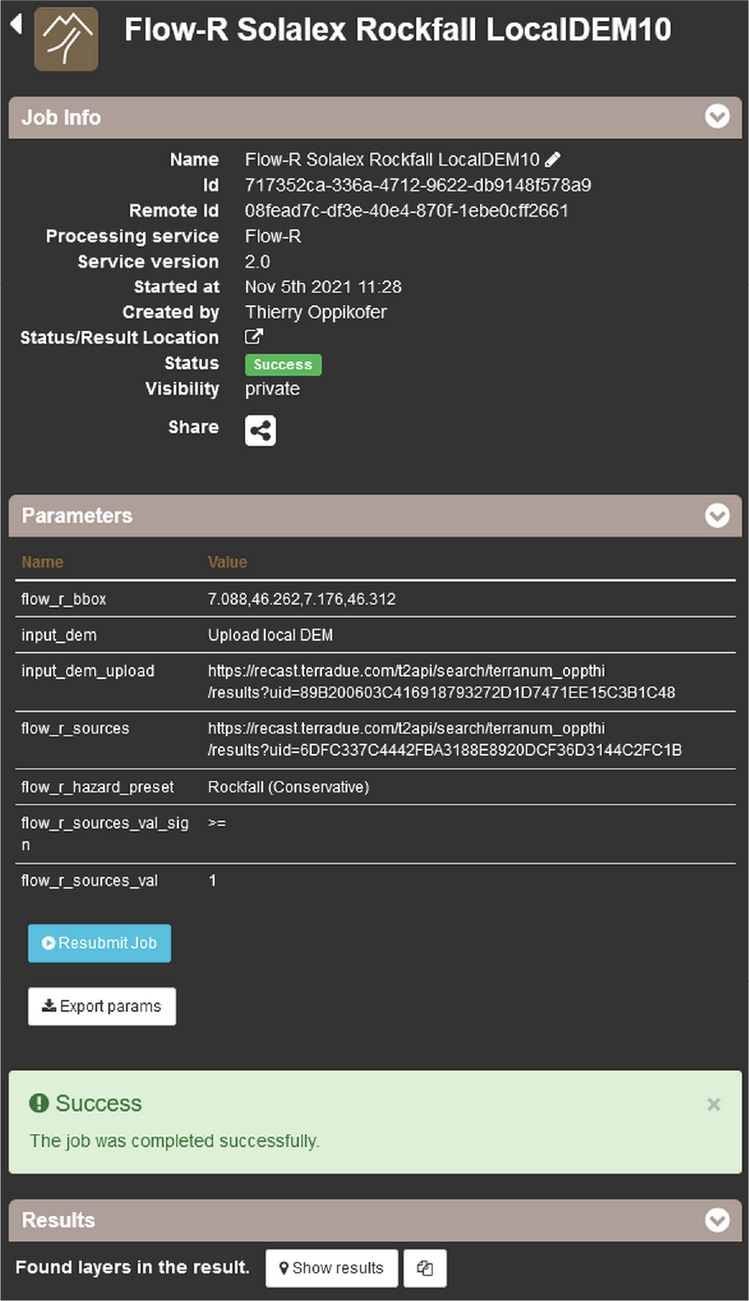
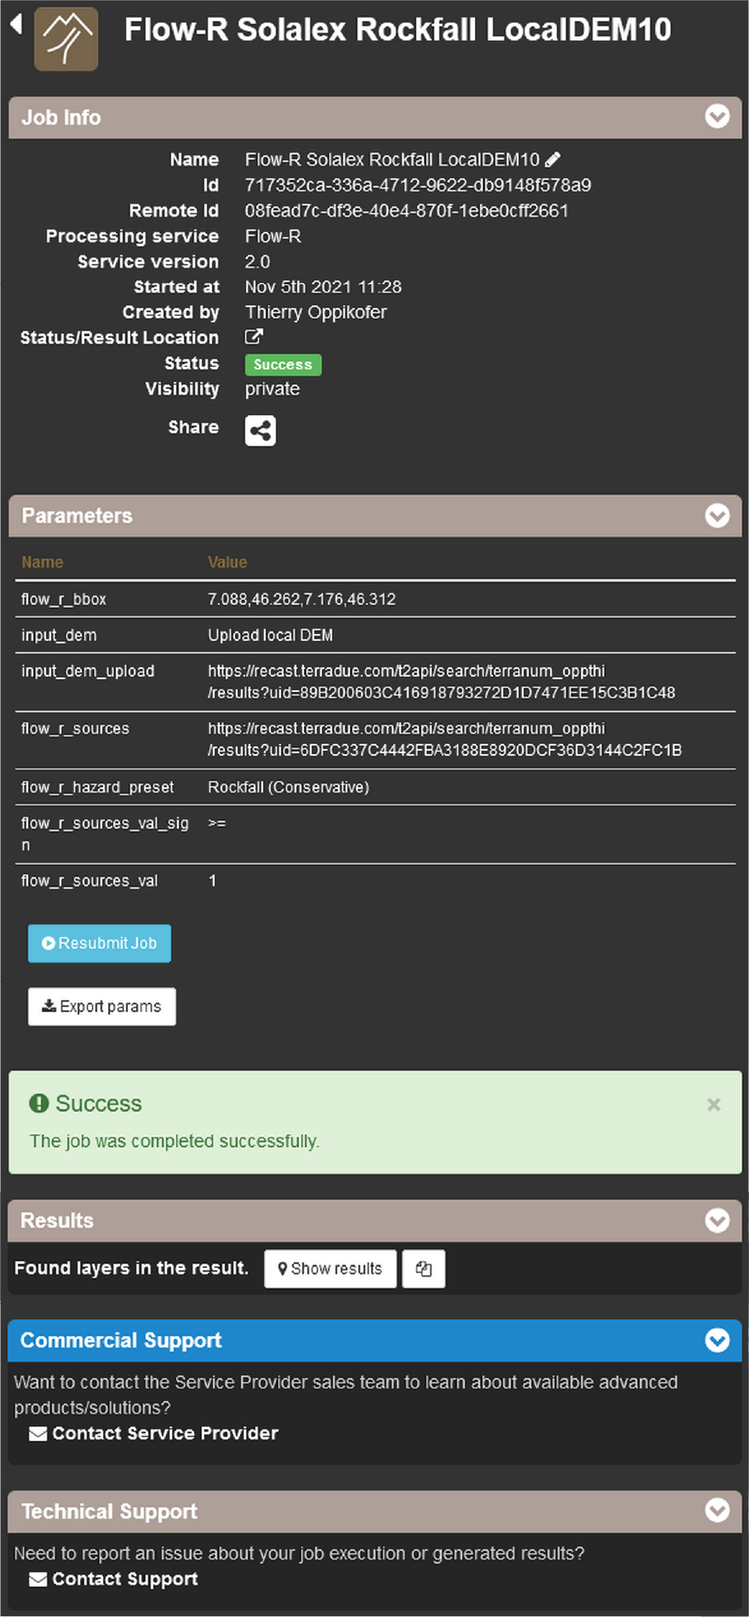
up flowr

diff --git a/source/tutorials/Flow-R.rst b/source/tutorials/Flow-R.rst
@@ -1,36 +1,46 @@
 Flow-R: Flow Path Assessment of Gravitational Hazards at a Regional Scale
 ~~~~~~~~~~~~~~~~~~~~~~~~~~~~~~~~~~~~~~~~~~~~~~~~~~~~~~~~~~~~~~~~~~~~~~~~~
-by Terranum Ltd (Switzerland)
+by Terranum Sàrl (Switzerland)
 
 .. figure:: assets/flowr_logo.jpg
         :width: 200px
- 
 
 1. Introduction
 ===============
-**Flow-R** stands for “Flow path assessment of gravitational hazards at a Regional scale” and is developed and maintained by Terranum Ltd (Switzerland), a spin-off of the University of Lausanne. **Flow-R** is a software for rapid, robust, and reliable propagation modeling of natural hazards. It allows for the assessment of the propagation extent based on several published empirical run-out models at local and regional scales. Details on the **Flow-R** model can be found in Horton et al. (2013) [1]_. Up to now, **Flow-R** has been adapted to runout computations of:
-- Debris flows
-- Rockfalls
-- Rock avalanches
-- Shallow landslides
-- Snow avalanches
-The **Flow-R** service on GEP contains parameter presets for these hazard types calibrated for extreme events in the Alps. Using these hazard presets therefore leads to conservative propagation extents appropriated for susceptibility or indicative hazard mapping at regional scale. Terranum Ltd provides, on-demand, advanced processing including calibration of propagation parameters to local landslide inventories and the distinction between extreme, rare, and current landslide events using susceptibility levels (https://www.terranum.ch/en/consulting/natural-hazards/).
+
+**Flow-R** stands for “Flow path assessment of gravitational hazards at a Regional scale” and is developed and maintained by Terranum Sàrl (Switzerland), a spin-off of the University of Lausanne. **Flow-R** is a software for rapid, robust, and reliable propagation modeling of natural hazards. It allows for the assessment of the propagation extent based on several published empirical run-out models at local and regional scales. Details on the **Flow-R** model can be found in Horton et al. (2013) [1]_.
+Up to now, **Flow-R** has been adapted to runout computations of:
+
+* Debris flows
+* Rockfalls
+* Rock avalanches
+* Shallow landslides
+* Snow avalanches
+
+The **Flow-R** service on GEP (hereafter called **Flow-R on GEP**) contains parameter presets for these hazard types calibrated for extreme events in the Alps. Using these hazard presets therefore leads to conservative propagation extents appropriated for susceptibility or indicative hazard mapping at regional scale. Terranum Sàrl provides, on-demand, advanced processing including calibration of propagation parameters to local landslide inventories and the distinction between extreme, rare, and current landslide events using susceptibility levels (https://www.terranum.ch/en/consulting/natural-hazards/). Section `4. Flow-R advanced processing`_ provides details on the advantages of the **Flow-R advanced** processing compared to the **Flow-R on GEP** propagation modelling.
 
 **Input specifications & supported EO data**
-- Digital Elevation Model (DEM):
-	- Copernicus DEM Europe with 10 m cell size (official name: EEA-10 [2]_)
-	- Copernicus DEM World with 30 m cell size (official name: GLO-30 [2]_)
-	- Custom DEM uploaded by user
-- Raster file of source areas:
-	- Custom source areas uploaded by user (for example with the value of 1 for source area cells and 0 or NoData for all non-source areas)
-	- Source areas created by other services on GEP
+
+* Digital Elevation Model (DEM):
+
+  * Copernicus DEM Europe with 10 m cell size (official name: EEA-10 [2]_)
+  * Copernicus DEM World with 30 m cell size (official name: GLO-30 [2]_)
+  * Custom DEM uploaded by user
+	
+* Raster file of source areas:
+
+  * Custom source areas uploaded by user (for example with the value of 1 for source area cells and 0 or NoData for all non-source areas)
+  * Source areas created by other services on GEP
+	
 .. NOTE:: As best practice, these input files should have square cells, a metric coordinate system (e.g., UTM or national grid), metric elevation values and ideally 10 m cell size. **Flow-R** handles differences in cell size or extent between the DEM and source areas, but the required regridding may lead to errors. Possible differences in projection system are handled in the **Flow-R** service by reprojecting the DEM in the coordinate system of the source areas.
 
 **Output specifications**
-- **Flow-R Runout**: raster file of the runout extent
-- **Flow-R Sources**: raster file of the source areas
-- **DEM**: a hillshade of the DEM
-- Two compressed folders (TGZ files) containing these outputs as raw data (…output.tgz) or as preview files with fixed symbology (…preview.tgz)
+
+* **Flow-R Runout**: raster file of the runout extent
+* **Flow-R Sources**: raster file of the source areas
+* **DEM**: a hillshade of the DEM
+* Two compressed folders (TGZ files) containing these outputs as raw data (…output.tgz) or as preview files with fixed symbology (…preview.tgz)
+
 
 2. Flow-R model setup
 =====================
@@ -38,22 +48,23 @@ The **Flow-R** service on GEP contains parameter presets for these hazard types 
 2.1 Access the **Flow-R** service on GEP
 ----------------------------------------
 
-- Sign-in on the GEP portal: https://geohazards-tep.eu/
-- Access the Thematic App containing the **Flow-R** service, for example the **eo4alps-landslides** Thematic App.
-- Open the tab *Processing services* from the right of the map and select the processing service **Flow-R**.
+* Sign-in on the GEP portal: https://geohazards-tep.eu/
+* Access the Thematic App containing the **Flow-R** service, for example the **eo4alps-landslides** Thematic App.
+* Open the tab *Processing services* from the right of the map and select the processing service **Flow-R**.
 
 .. figure:: assets/flowr_processing_service.png
 	:figclass: align-center
 		:width: 850px
 		:align: center
  
-
 2.2 Preparation of input data
 -----------------------------
 
 This section describes the preparation of input data required for the **Flow-R** service.
-- Navigate to the Area of Interest (AOI) in the geobrowser map (e.g., Solalex in the southwestern Swiss Alps)
-- Use the *Draw polygon* or *Draw rectangle* tools in the geobrowser (hover over the upper left corner of the map to display the tools) to define your AOI or the *wkt* tool to upload or use an existing AOI (upload of shapefile (.zip), KML (.kml/.kmz) or geojson (.json) or well-formed WKT code)
+
+* Navigate to the Area of Interest (AOI) in the geobrowser map (e.g., Solalex in the southwestern Swiss Alps)
+* Use the *Draw polygon* or *Draw rectangle* tools in the geobrowser (hover over the upper left corner of the map to display the tools) to define your AOI or the *wkt* tool to upload or use an existing AOI (upload of shapefile (.zip), KML (.kml/.kmz) or geojson (.json) or well-formed WKT code)
+
 .. NOTE:: This step is not mandatory but highly recommended, especially when a Copernicus DEM is used.
 
 .. figure:: assets/flowr_parameters1.png
@@ -61,118 +72,171 @@ This section describes the preparation of input data required for the **Flow-R**
 		:width: 850px
 		:align: center
  
+* Upload the user-defined source areas and optionally a custom DEM to your private storage on the GEP using the **Upload Data** button in the menu bar on the top. From the drop-down list under *Target Repository*, select your GEP username and keep the default *Target path* (i.e., “/results”)
 
-- Upload the user-defined source areas and optionally a custom DEM to your private storage on the GEP using the **Upload Data** button in the menu bar on the top. From the drop-down list under *Target Repository*, select your GEP username and keep the default *Target path* (i.e., “/results”)
 .. NOTE:: This step is not required if the source areas are provided as outputs of other GEP services and if a provided DEM source is used (e.g., *Copernicus Europe (10 m)* or *Copernicus World (30 m)*).
 
-2.3 Flow-R parametrization
---------------------------
+2.3 Flow-R parameterization
+---------------------------
 
-This section describes the different parameters of the **Flow-R** service.
-- **Job title**: provide a meaningful title for the **Flow-R** model run, such as “Flow-R [Name of study area] [Hazard type] [Optional other parameters]” (e.g., “Flow-R Solalex Rockfall LocalDEM10”).
+This section describes the different parameters of the **Flow-R** service on GEP.
+
+* **Job title**: provide a meaningful title for the **Flow-R** model run, such as “Flow-R [Name of study area] [Hazard type] [Optional other parameters]” (e.g., “Flow-R Solalex Rockfall LocalDEM10”).
+
 .. NOTE:: The date and time of the model run will be automatically added to the created output files (in UTC, Coordinated Universal Time).
 
-- **Area of Interest**: this optional parameter is used to define the processing extent indicated in longitude and latitude as text string in the format: “LongitudeMin,LatitudeMin,LongitudeMax,LatitudeMax” (no spaces) (e.g., “7.088,46.262,7.176,46.312”). Use the *magic wand* symbol to import the bounding box of the current selection polygon or rectangle as AOI (see above).
+* **Area of Interest**: this optional parameter is used to define the processing extent indicated in longitude and latitude as text string in the format: “LongitudeMin,LatitudeMin,LongitudeMax,LatitudeMax” (no spaces) (e.g., “7.088,46.262,7.176,46.312”). Use the *magic wand* symbol to import the bounding box of the current selection polygon or rectangle as AOI (see above).
+
 .. NOTE:: If not specified, the **Area of Interest** is cropped to the user-uploaded DEM (if *Upload local DEM* is chosen as **DEM Source**) or to the **Source areas** (if *Copernicus Europe (10 m)* or *Copernicus World (30 m)* are chosen as **DEM Source**).
 
-- **DEM Source**: choose the data source of the DEM from the drop-down list, i.e., *Copernicus Europe (10 m)* (10 m cell size) [2]_, *Copernicus World (30 m)* (30 m cell size) [2]_ or *Upload local DEM*.
+* **DEM Source**: choose the data source of the DEM from the drop-down list, i.e., *Copernicus Europe (10 m)* (10 m cell size) [2]_, *Copernicus World (30 m)* (30 m cell size) [2]_ or *Upload local DEM*.
+
 .. NOTE:: if the *Copernicus Europe (10 m)* DEM is selected as *DEM Source* but not available over the chosen AOI, the **Flow-R** service automatically switches to the *Copernicus World (30 m)* DEM.
 
-- **Input third-party DEM**: specify the user-provided DEM previously uploaded to the private storage on GEP (see above). This parameter is only required if the *Upload local DEM* is selected under **DEM Source**.
-- **Source areas**: specify the source areas of the mass movement previously uploaded to the private storage on GEP (see above) or from outputs of other GEP services.
-.. NOTE:: To access the uploaded files in your private storage click on Private  My Store in the menu bar on the top. If an AOI is defined in the geobrowser (using the *Draw polygon*, *Draw rectangle* or *wkt* tools) only the user datasets that intersect the AOI are shown. Select the appropriate file and drag-and-drop it to the matching field in the **Flow-R** interface.
+* **Input third-party DEM**: specify the user-provided DEM previously uploaded to the private storage on GEP (see above). This parameter is only required if the *Upload local DEM* is selected under **DEM Source**.
+* **Source areas**: specify the source areas of the mass movement previously uploaded to the private storage on GEP (see above) or from outputs of other GEP services.
 
-- **Hazard (preset)**: choose the appropriate hazard type and parameter set from the drop-down list. Details on the currently implemented hazard types are provided in section 2.4 “Flow-R hazard types”.
-- **Sources selection criteria – Condition**: select the logical condition (=, >, >=, <, or <=) from the drop-down list used to filter the provided source areas (in combination with the numerical value specified under **Sources selection criteria – Value**).
-- **Sources selection criteria – Value**: specify the value used to filter the provided source areas (in combination with the logical condition specified under **Sources selection criteria – Condition **).
+.. NOTE:: To access the uploaded files in your private storage click on Private --> My Store in the menu bar on the top. If an AOI is defined in the geobrowser (using the *Draw polygon*, *Draw rectangle* or *wkt* tools) only the user datasets that intersect the AOI are shown. Select the appropriate file and drag-and-drop it to the matching field in the **Flow-R** interface.
+
+* **Hazard (preset)**: choose the appropriate hazard type and parameter set from the drop-down list. Details on the currently implemented hazard types are provided in section `2.4 Flow-R hazard types`_.
+* **Sources selection criteria – Condition**: select the logical condition (=, >, >=, <, or <=) from the drop-down list used to filter the provided source areas (in combination with the numerical value specified under **Sources selection criteria – Value**).
+* **Sources selection criteria – Value**: specify the value used to filter the provided source areas (in combination with the logical condition specified under **Sources selection criteria – Condition **).
+
 .. NOTE:: The input source areas can contain different numerical values (integer only), representing for example different levels of susceptibility/hazard or different mass movement types. Using the **Sources selection criteria** parameters allows processing only specific sources. Usually, the source areas have a value of 1, while non-source pixels have a value of 0 or NoData. In that case, the default condition (>=) and value (1) will consider all source areas for the propagation.
 
-- Click on the *Run Job* button at the bottom of the **Flow-R** interface.
-- This automatically displays the *Job Info* window summarizing the parameters of the **Flow-R** processing. The progress bar allows checking the progress of the processing.
+* Click on the *Run Job* button at the bottom of the **Flow-R** interface.
+* This automatically displays the *Job Info* window summarizing the parameters of the **Flow-R** processing. The progress bar allows checking the progress of the processing.
 
 .. figure:: assets/flowr_parameters2.png
 	:figclass: align-center
-		:width: 350px
+		:width: 550px
 		:align: center
  
-
 .. figure:: assets/flowr_jobinfo1.png
 	:figclass: align-center
-		:width: 350px
+		:width: 550px
 		:align: center
  
 
 2.4 Flow-R hazard types
 -----------------------
-The **Flow-R** processing service on GEP contains parameter presets for these various hazard types calibrated for extreme events in the Alps. For the explanation of the various model parameters, the user is referred to the complete description of **Flow-R** in Horton et al. (2013) [1]_.
-Following hazard presets are currently implemented:
-- **Debris flows (Conservative)** for debris flows in Alpine torrents (permanent or intermittent): simplified friction-limited model (SFLM) with reach angle 10° and maximum velocity 15 m/s, Holmgren (1994) modified direction algorithm [1]_,_[3]_ with exponent x=3 and height modification dh=2 m, and persistence algorithm with default weights
-- **Debris flows (Large torrents)** for debris flows in large torrents: SFLM with reach angle 3° and maximum velocity 15 m/s, Holmgren modified direction algorithm with exponent x=2 and height modification dh=2 m, and persistence algorithm with default weights
-- **Rockfall (Conservative)** for fragmental rockfalls (up to few m³ in volume): SFLM with reach angle 32° and maximum velocity 30 m/s, Holmgren modified direction algorithm with exponent x=1 and height modification dh=1 m, and persistence algorithm with Gamma (2000)[4]_ weights
-- **Shallow landslide (Mudflow)** for superficial landslides transforming into mudflows: SFLM with reach angle 19° and maximum velocity 8 m/s, Holmgren modified direction algorithm with exponent x=24 and height modification dh=1 m, and persistence algorithm with cosine weights
-- **Shallow landslide (Roto-translational slide)** for superficial landslides without transformation into mudflows: SFLM with reach angle 27° and maximum velocity 2 m/s, Holmgren modified direction algorithm with exponent x=18 and height modification dh=1 m, and persistence algorithm with cosine weights
-- **Rock avalanches (volume < 120,000)** for large rock slope failures involving a volume of rock smaller than 120,000 m³: SFLM with reach angle 30° and no velocity limit, Holmgren modified direction algorithm with exponent x=1 and height modification dh=10 m, and persistence algorithm with memory effect over 30 cells and an opening of 240°.
-- **Rock avalanches (volume: 80,000 – 400,000)**: parameters as above with a reach angle of 25°.
-- **Rock avalanches (volume: 250,000 – 1,200,000)**: parameters as above with a reach angle of 22°.
-- **Rock avalanches (volume: 800,000 – 4,000,000)**: parameters as above with a reach angle of 19°.
-- **Rock avalanches (volume: 2,500,000 – 12,000,000)**: parameters as above with a reach angle of 16°.
-- **Rock avalanches (volume: 8,000,000 – 40,000,000)**: parameters as above with a reach angle of 14°.
-- **Rock avalanches (volume: 25,000,000 – 120,000,000)**: parameters as above with a reach angle of 12°.
-- **Snow avalanches (Powder Conservative)** for powder snow avalanches in the Alps: Perla (1980) [5]_ model with friction parameter mu=0.3 and mass-to-drag ratio md=2500, Holmgren modified direction algorithm with exponent x=4 and height modification dh=5 m, and persistence algorithm with default weights
 
-.. NOTE:: These hazard presents lead to conservative propagation extents appropriated for susceptibility or indicative hazard mapping at regional scale. Terranum Ltd provides on-demand, advanced processing including calibration of propagation parameters to local landslide inventories and the distinction between extreme, rare, and current landslide events using susceptibility levels (https://www.terranum.ch/en/consulting/natural-hazards/).
+**Flow-R on GEP** contains parameter presets for these various hazard types calibrated for extreme events in the Alps. For the explanation of the various model parameters, the user is referred to the complete description of **Flow-R** in Horton et al. (2013) [1]_. Following hazard presets are currently implemented:
+
+* **Debris flows (Conservative)** for debris flows in Alpine torrents (permanent or intermittent): simplified friction-limited model (SFLM) with reach angle 10° and maximum velocity 15 m/s, Holmgren (1994) modified direction algorithm [1]_ [3]_ with exponent x=3 and height modification dh=2 m, and persistence algorithm with default weights
+* **Debris flows (Large torrents)** for debris flows in large torrents: SFLM with reach angle 3° and maximum velocity 15 m/s, Holmgren modified direction algorithm with exponent x=2 and height modification dh=2 m, and persistence algorithm with default weights
+* **Rockfall (Conservative)** for fragmental rockfalls (up to few m³ in volume): SFLM with reach angle 32° and maximum velocity 30 m/s, Holmgren modified direction algorithm with exponent x=1 and height modification dh=1 m, and persistence algorithm with Gamma (2000) [4]_ weights
+* **Shallow landslide (Mudflow)** for superficial landslides transforming into mudflows: SFLM with reach angle 19° and maximum velocity 8 m/s, Holmgren modified direction algorithm with exponent x=24 and height modification dh=1 m, and persistence algorithm with cosine weights
+* **Shallow landslide (Roto-translational slide)** for superficial landslides without transformation into mudflows: SFLM with reach angle 27° and maximum velocity 2 m/s, Holmgren modified direction algorithm with exponent x=18 and height modification dh=1 m, and persistence algorithm with cosine weights
+* **Rock avalanches (volume < 120,000)** for large rock slope failures involving a volume of rock smaller than 120,000 m³: SFLM with reach angle 30° and no velocity limit, Holmgren modified direction algorithm with exponent x=1 and height modification dh=10 m, and persistence algorithm with memory effect over 30 cells and an opening of 240°.
+* **Rock avalanches (volume: 80,000 – 400,000)**: parameters as above with a reach angle of 25°.
+* **Rock avalanches (volume: 250,000 – 1,200,000)**: parameters as above with a reach angle of 22°.
+* **Rock avalanches (volume: 800,000 – 4,000,000)**: parameters as above with a reach angle of 19°.
+* **Rock avalanches (volume: 2,500,000 – 12,000,000)**: parameters as above with a reach angle of 16°.
+* **Rock avalanches (volume: 8,000,000 – 40,000,000)**: parameters as above with a reach angle of 14°.
+* **Rock avalanches (volume: 25,000,000 – 120,000,000)**: parameters as above with a reach angle of 12°.
+* **Snow avalanches (Powder Conservative)** for powder snow avalanches in the Alps: Perla (1980) [5]_ model with friction parameter mu=0.3 and mass-to-drag ratio md=2500, Holmgren modified direction algorithm with exponent x=4 and height modification dh=5 m, and persistence algorithm with default weights
+
+.. NOTE:: Additional information on the types of hazards (materials, failure mechanisms, and propagation behaviors implied) is detailed in Hungr et al. (2014) [6]_.
+
+.. NOTE:: These hazard presents lead to conservative propagation extents appropriated for susceptibility or indicative hazard mapping at regional scale. Terranum Sàrl provides on-demand, advanced processing including calibration of propagation parameters to local landslide inventories and the distinction between extreme, rare, and current landslide events using susceptibility levels (https://www.terranum.ch/en/consulting/natural-hazards/). Section `4. Flow-R advanced processing`_ provides details on the advantages of the **Flow-R  advanced** processing compared to **Flow-R on GEP** propagation modelling.
+
 
 3. Flow-R modelling results
 ===========================
-- Check the modelling progress in the *Jobs* tab under “Processing Services” or in the detailed job information window (if necessary, refresh the job status by clicking on the status button)
-- Once the **Flow-R** model run is successfully completed, click on the *Show results* button at the bottom of the job information window.
+
+* Check the modelling progress in the *Jobs* tab under “Processing Services” or in the detailed job information window (if necessary, refresh the job status by clicking on the status button)
+* Once the **Flow-R** model run is successfully completed, click on the *Show results* button at the bottom of the job information window.
+
+..NOTE:: Clicking on the *Contact Service Provider* button under “Commercial Support” opens the contact form for **Flow-R advanced** modelling as detailed in section `4. Flow-R advanced processing`_.
 
 .. figure:: assets/flowr_jobinfo2.png
 	:figclass: align-center
-		:width: 350px
+		:width: 550px
 		:align: center
  
+* The **Flow-R** modelling results are displayed on the map of the geobrowser and listed in the *Results* tab in the window on the left side. The results comprise a hillshade of the DEM, the source areas, and the runout areas. Moreover, the results contain two archive files (TGZ format that can be downloaded and directly opened on your computer): one with the raw outputs (…output.tgz) and one with the rendered preview files (…preview.tgz)
 
-- The **Flow-R** modelling results are displayed on the map of the geobrowser and listed in the *Results* tab in the window on the left side. The results comprise a hillshade of the DEM, the source areas, and the runout areas. Moreover, the results contain two archive files (TGZ format that can be downloaded and directly opened on your computer): one with the raw outputs (…output.tgz) and one with the rendered preview files (…preview.tgz)
-
-..NOTE:: The runout areas are binary maps with the value of 1 for areas reached by the mass movement and the value of 0 for areas not reached. These runout areas discard pixels with a maximum reach susceptibility smaller than 0.005 (see Horton et al. (2013)[1]_ for details).
+..NOTE:: The runout areas are binary maps with the value of 1 for areas reached by the mass movement and the value of 0 for areas not reached. These runout areas discard pixels with a maximum reach susceptibility smaller than 0.005 (see Horton et al. (2013) [1]_ for details).
 
 .. figure:: assets/flowr_results.png
 	:figclass: align-center
 		:width: 850px
 		:align: center
  
-
-- To download the results, select the *_output.tgz file in the “Results” tab and click on the folder icon “Show details” in the lower right corner. Then, click on the “Download” button in the lower left corner.
-- Unpack the TGZ file and add the Flow-R modelling results to your GIS software.
+* To download the results, select the output.tgz file in the “Results” tab and click on the folder icon “Show details” in the lower right corner. Then, click on the “Download” button in the lower left corner.
+* Unpack the TGZ file and add the Flow-R modelling results to your GIS software.
 
 .. figure:: assets/flowr_results_download.png
 	:figclass: align-center
 		:width: 650px
 		:align: center
  
+4. Flow-R advanced processing
+=============================
 
-4. Feedback
+The **Flow-R on GEP** service uses predefined parameter sets for the different hazard types calibrated for extreme events in the Alps (see section `2.4 Flow-R hazard types`_), which lead to conservative propagation extents. Terranum, as service provider and developper of **Flow-R**, offers on-demand customized processing. This **Flow-R advanced** modelling is tailored to the user's study area, requirements and available data. **Flow-R advanced** is based on extensive calibration and customization of model parameters, using for example databases and maps of past landslide events in the area of interest. Compared to the outputs of **Flow-R on GEP**, **Flow-R advanced** processing results include:
+
+* Multiple runout areas distinguishing extreme events from rare and current scenarios
+* Assess the reach susceptibility and preferential runout paths
+* Highlight the runout area for each source area individually
+* Assess the effect of protective forests on the runout areas
+* Integration of the failure susceptibility of landslide source areas
+* Filtering of anthropogenic source areas or very small runout areas
+
+Moreover, Terranum has broad expertise in the assessment of source areas for all relevant landslide types.
+
+.. figure:: assets/flowr_advanced_comparison.png
+	:figclass: align-center
+		:width: 850px
+		:align: center
+		
+Interested by **Flow-R advanced** processing?
+^^^^^^^^^^^^^^^^^^^^^^^^^^^^^^^^^^^^^^^^^^^^^
+
+If you want to complement results of a processed **Flow-R on GEP** job with Terranum's advanced processing, send a request to Terranum by clicking on the *Contact Service Provider* button under “Commercial Support” in the detailed job information window.
+	
+.. figure:: assets/flowr_advanced_contact.png
+	:figclass: align-center
+		:width: 550px
+		:align: center
+
+This opens the contact form for **Flow-R advanced** modelling, which automatically includes the parameterization of the selected **Flow-R** job. Please provide additional information about your request, particularly the study area, required scale/resolution, relevant hazard types and a brief description of available input data (DEM, source areas, datasets for calibration and validation etc.). Ideally, copy the text below and paste it into the *User's notes* section of the contact form. ::
+
+	I am requesting a quote for Flow-R advanced processing based on this Flow-R job:
+	- Area of interest: [please specify]
+	- Study scale/resolution: [ ] Medium (25m, 1:500'000) / [ ] High (10m, 1:25'000) / [ ] Very high (5m, 1:10'000)
+	- Hazard type: [ ] Shallow landslide / [ ] Mudflow / [ ] Debris flow / [ ] Rockfall / [ ] Rock avalanche / [ ] Snow avalanche
+	- Available geodatasets: [ ] Landslide inventory / [ ] Local DEM / [ ] Geological map / [ ] Land-use map
+	- Additional information: [please add]
+	- Contact information: [please specify your name, institution and e-mail address]
+	
+.. figure:: assets/flowr_contact_service_provider.png
+	:figclass: align-center
+		:width: 700px
+		:align: center
+
+..NOTE:: For any questions about **Flow-R advanced** processing, you may contact Terranum via https://www.terranum.ch/en/about/
+
+5. Feedback
 ===========
+
 Users are kindly invited to report any issue and problem encountered during the use of the **Flow-R** service by issuing a ticket from their project support space on https://helpdesk.terradue.com/ or sending an email to support@terradue.com
 Suggestions and comments about the GEP service delivery are warmly welcomed on contact@geohazards-tep.eu to keep the service delivery on GEP as much as possible appealing, effective, and efficient.
 
-5. Terms and Conditions
+6. Terms and Conditions
 =======================
-**Intellectual Property Right**
-The Intellectual Property Right of the Flow-R service (called “Service” hereafter) lies with Terranum Sàrl (Rue de l’Industrie 35b, CH-1030 Bussigny, Switzerland, called “Terranum”), if not differently specified. By using the Service, you agree to be bound by these **Terms and Conditions** and that they are enforceable like any written negotiated agreement signed by you. If you do not agree to these **Terms and Conditions**, do not use the Service and contact Terranum (mailto:info@terranum.ch).
 
-**Use**
-The Service is available to all GEP users according to a CC-BY license. There is the possibility that users participate in the cost of service maintenance and operation: these costs are defined case-by-case among Terranum, the platform operator and ESA.
+**Intellectual Property Right** | The Intellectual Property Right of the Flow-R service (called “Service” hereafter) lies with Terranum Sàrl (Rue de l’Industrie 35b, CH-1030 Bussigny, Switzerland, called “Terranum”), if not differently specified. By using the Service, you agree to be bound by these **Terms and Conditions** and that they are enforceable like any written negotiated agreement signed by you. In case of any concern with these **Terms and Conditions**, please contact Terranum (mailto:info@terranum.ch) for additional information before using the Service.
 
-**Results**
-The results of the Service are made available under the CC-BY license.
+**Use** | The Service is available to all GEP users according to a CC-BY license [7]_. There is the possibility that users participate in the cost of service maintenance and operation: these costs are defined case-by-case among the Service provider, Terranum, the Ressource provider, Conectus/EOST, and the Platform operator, Terradue Srl. 
 
-** Warranty and limitation of liability**
-Terranum accepts no responsibility for the operation or performance of the Service. The entire risk of use and consequences of use of the Service falls completely on you and Terranum shall not be liable in any respect for any loss claims or injury alleged to have resulted from use of or in reliance on software product. In this respect, you shall indemnify and defend against any and all claims, including claims by third parties or by your employees, which arise directly or indirectly out of your use or operation of the Service. Terranum’s sole obligation under this warranty is to use reasonable efforts to correct any non-conforming software.
+**Results** | The results of the Service are freely shareable and adaptable with appropriate credits under the CC-BY license [7]_.
+
+**Warranty and limitation of liability** | Terranum accepts no responsibility for the operation or performance of the Service. The entire risk of use and consequences of use of the Service falls completely on you and Terranum shall not be liable in any respect for any loss claims or injury alleged to have resulted from use of or in reliance on software product. In this respect, you shall indemnify and defend against any and all claims, including claims by third parties or by your employees, which arise directly or indirectly out of your use or operation of the Service. Terranum’s sole obligation under this warranty is to use reasonable efforts to correct any non-conforming software.
 You acknowledge that you have read the foregoing disclaimers of warranty and limitation of liability and understand that you assume the entire risk of use of the Service. In no event will Terranum be liable to you for any damages, claims or costs whatsoever or any consequential, indirect, incidental damages, or any lost profits or lost savings, even if a Terranum representative has been advised of the possibility of such losses, damages, claims or costs or for any claim by any third party. Terranum will not be liable for any damages whatsoever (including, without limitation, damages for loss of business profits, business interruption, loss of business information, or other pecuniary loss) arising out of the use of or inability to use the Service, even if Terranum has been advised of the possibility of such damages. In any case, Terranum’s entire liability under any provision of this agreement shall be limited to the amount actually paid by you for the Service. The foregoing limitations and exclusions apply to the extent permitted by applicable law in your jurisdiction. Terranum’s aggregate liability and that of its suppliers under or in connection with this agreement shall be limited to the amount paid for the software, if any.
 
-6. References
+7. References
 =============
 
 .. [1] Horton, P., Jaboyedoff, M., Rudaz, B., and Zimmermann, M. (2013): Flow-R, a model for susceptibility mapping of debris flows and other gravitational hazards at a regional scale. Natural Hazards Earth System Sciences 13, 869-885, doi:10.5194/nhess-13-869-2013.
@@ -180,3 +244,5 @@ You acknowledge that you have read the foregoing disclaimers of warranty and lim
 .. [3] Holmgren, P. (1994): Multiple flow direction algorithms for runoff modelling in grid based elevation models: An empirical evaluation. Hydrol. Process. 8, 327–334, doi:10.1002/hyp.3360080405.
 .. [4] Gamma, P. (200): dfwalk – Ein Murgang-Simulationsprogramm zur Gefahrenzonierung. PhD thesis, Geographisches Institut der Universität Bern (in German).
 .. [5] Perla, R., Cheng, T.T., and McClung, D.M. (1980): A two-parameter model of snow-avalanche motion. J. Glaciol. 26, 197–207.
+.. [6] Hungr, O., Leroueil, S., and Picarelli, L. (2014): The Varnes classification of landslide types, an update. Landslides. 11, 167-194.
+.. [7] Creative Commons Attribution 4.0 International (CC BY) licence: https://creativecommons.org/licenses/by/4.0/

diff --git a/source/community-guide/user.rst b/source/community-guide/user.rst
@@ -13,7 +13,7 @@ Sign-in
 To sign-in on GEP, you need to have an account created on Terradue Cloud Platform.
 
 	- `I have already an account at Terradue`_
-	- `I don't have yet an account at Terradue`_
+	- `I do not have yet an account at Terradue`_
     
 	    - `Create a new account from scratch`_
 	    - `Create your account from a trusted Identity Provider`_
@@ -41,8 +41,8 @@ I already have an account at Terradue
 
 3. If not done, you can configure your account.
 
-I don't have yet an account at Terradue
-~~~~~~~~~~~~~~~~~~~~~~~~~~~~~~~~~~~~~~~
+I do not have yet an account at Terradue
+~~~~~~~~~~~~~~~~~~~~~~~~~~~~~~~~~~~~~~~~
 
 Create a new account from scratch
 `````````````````````````````````
